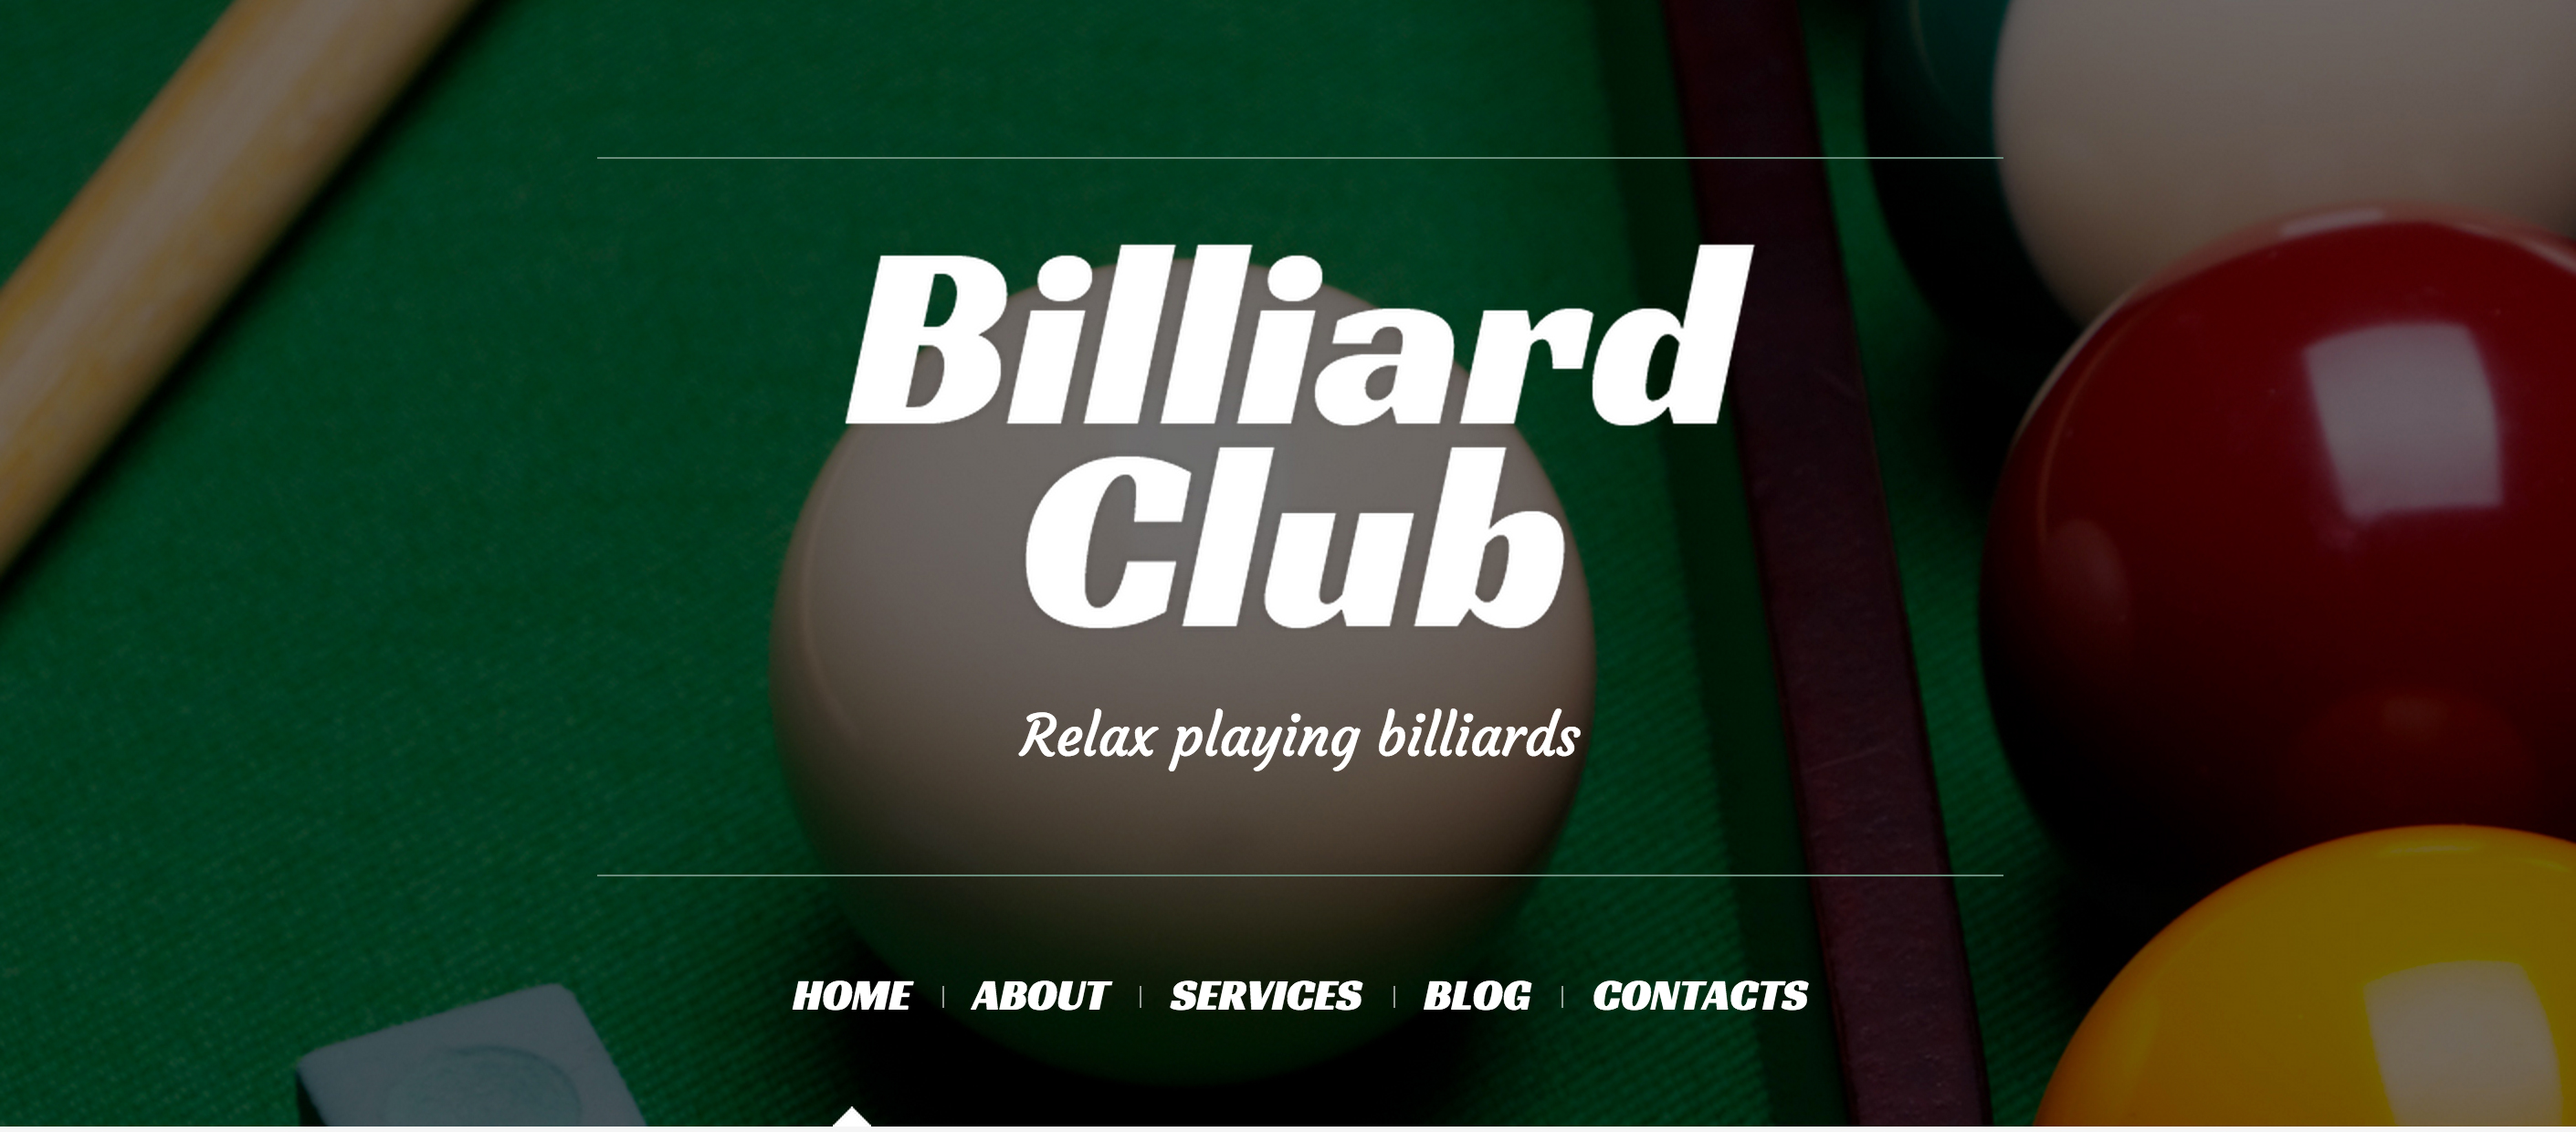
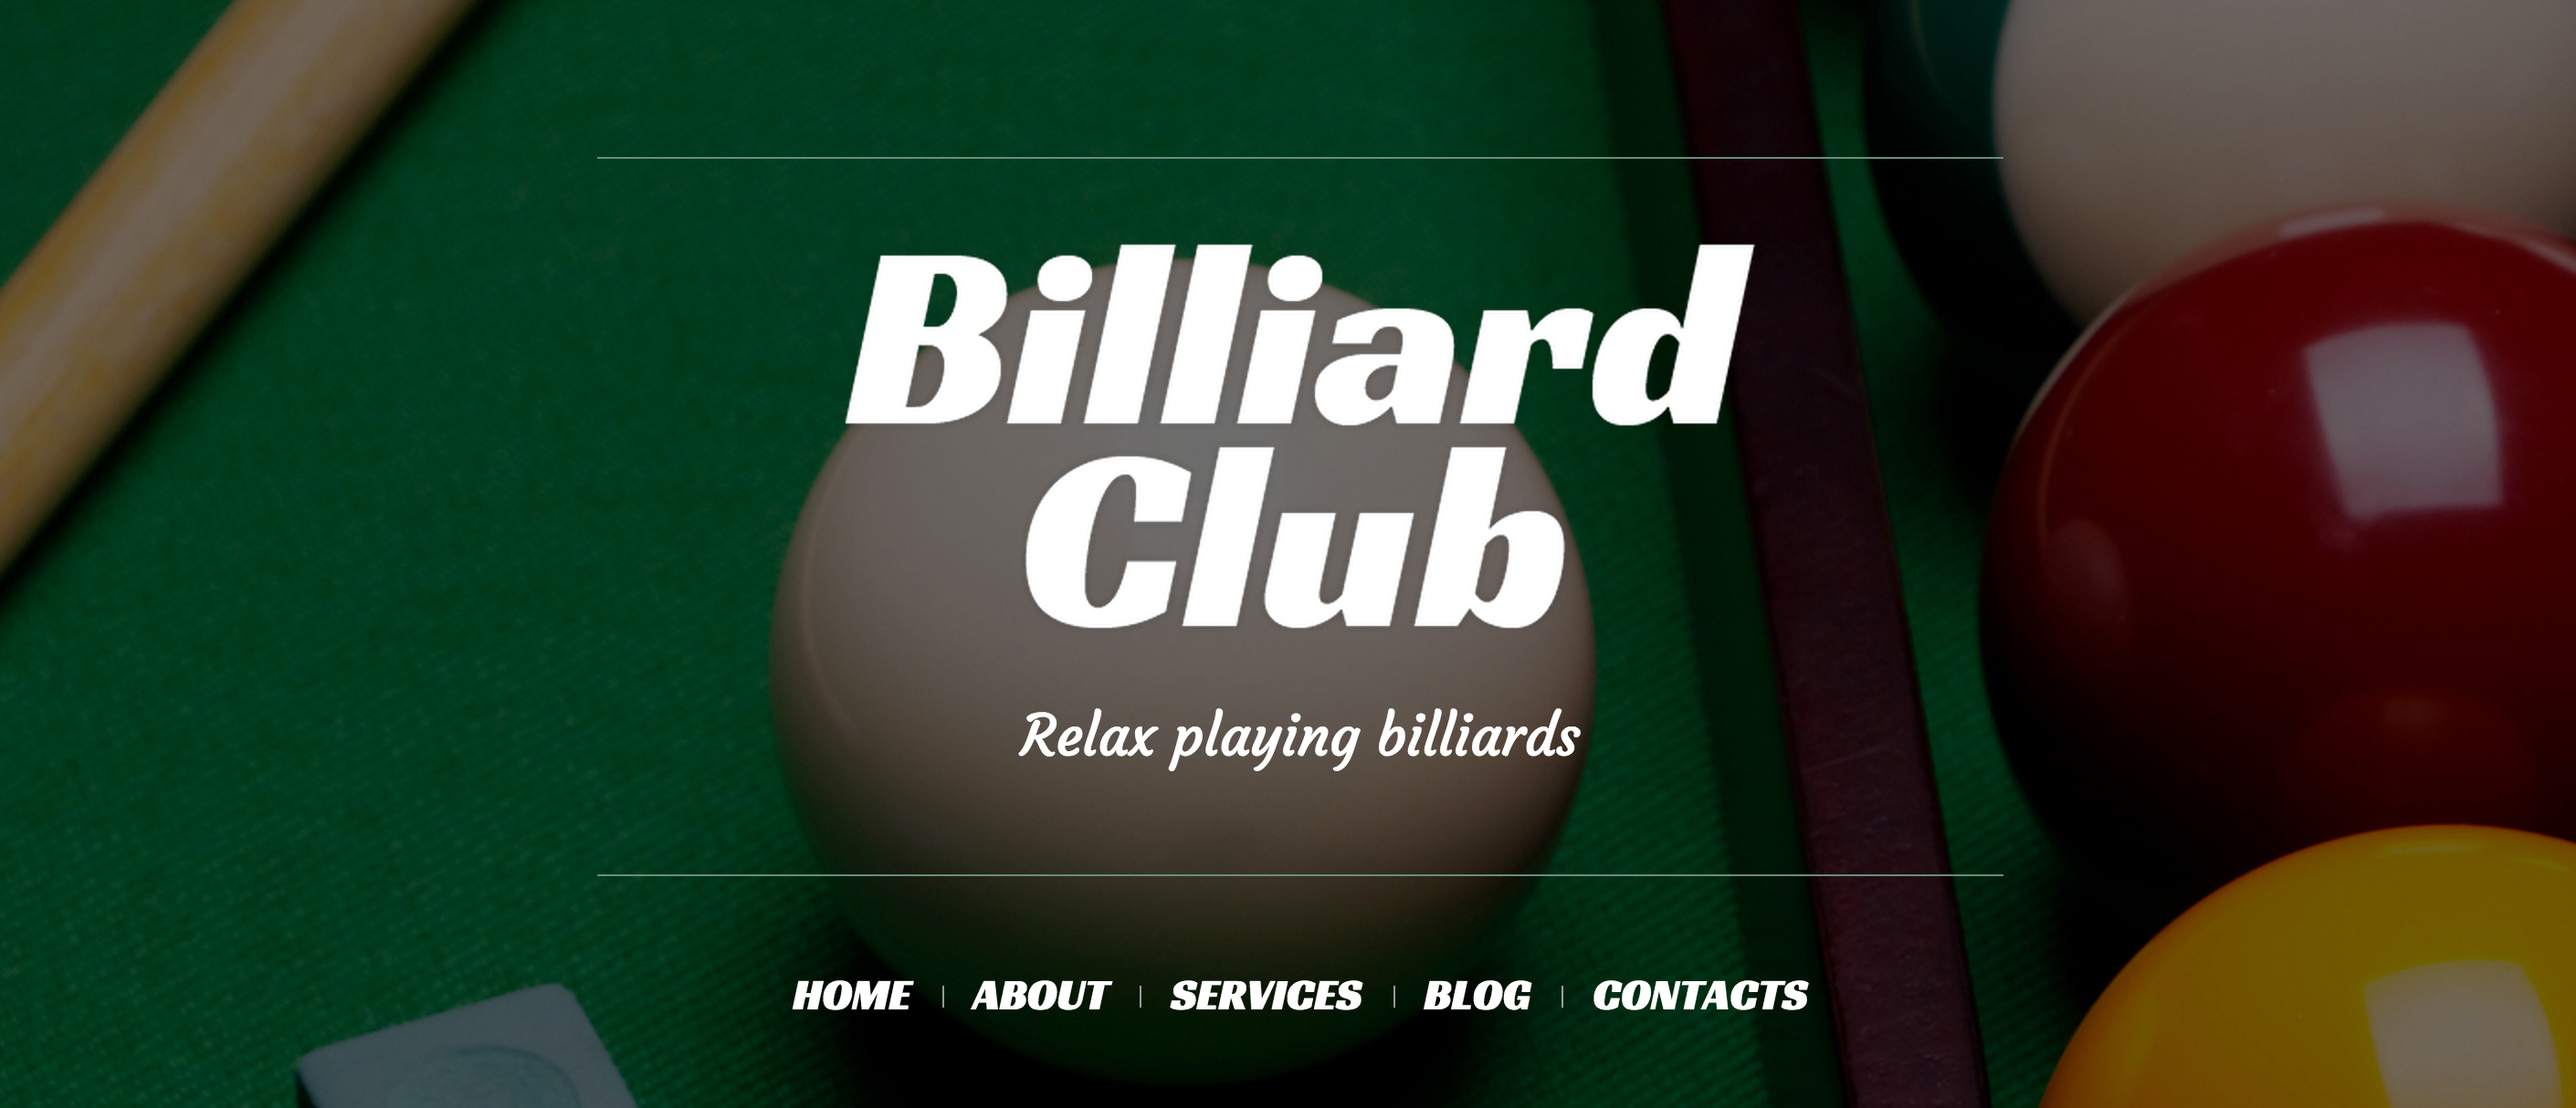
update 08-21-10-45

diff --git a/components/6/css/component.css b/components/6/css/component.css
@@ -55,22 +55,28 @@ li{
 		height: 40px;
 }
 
-a[href*="http://www.facebook.com"] {
-		background: url("images/facebook-logo-white.png") no-repeat center;
-		background-size: 1rem;
+li:first-child{
+		background: url("../images/icon-facebook-white-1.png") no-repeat center;
+		background-color: #32353a;
+		background-size: 1.5rem;
 }
 
-a[href*="https://www.twitter.com"] {
-		background: url("../images/twitter.gif") no-repeat center;
-		background-size: 1rem;
+li:nth-child(2){
+		background: url("../images/twitter_logo_white.gif") no-repeat center;
+		background-color: #32353a;
+		background-size: 6rem;
 }
 
-a[href*="http://www.google.com/+/"]{
-		background-image: url("../images/google-plus.png") no-repeat center;
+li:nth-child(3){
+		background: url("../images/googleplus-icon-02-01.png") no-repeat center;
+		background-color: #32353a;
+		background-size: 1.5rem;
 }
 
-a[href*="https://instagram.com/"] {
-		background-image: url("../images/instagram.png") no-repeat center;
+li:nth-child(4){
+		background: url("../images/instagram.png") no-repeat center;
+		background-color: #32353a;
+		background-size: 2rem;
 }
 
 li:hover{
@@ -80,6 +86,10 @@ li:hover{
 a{
 		text-decoration: none;
 		color: #636b76;
+}
+
+a:first-child, a:first-child:hover{
+		color: #fff;
 }
 
 a:hover{

diff --git a/components/4/component.html b/components/4/component.html
@@ -17,7 +17,7 @@
 								<p>03</p>
 								<p><span>Dec</span><br>2014</p>
 						</time>
-								<h2>Donec Facilisi Ule Mes Cuml Dia Sed</h2>
+								<h2>Donec Facilisi Ule <span class="red">Mes Cuml Dia Sed</span></h2>
 								<p>Morbi tempor quam mas sadipu iscing ut cucongue pentesqu nisel elit comte modo velultrices vel conseq.</p>
 						
 				</article>
@@ -26,7 +26,7 @@
 								<p>06</p>
 								<p><span>Dec</span><br>2014</p>
 						</time>
-								<h2>Donec Facilisi Ule Mes Cuml Dia Sed</h2>
+								<h2>Donec Facilisi Ule <span class="red">Mes Cuml Dia Sed</span></h2>
 								<p>Morbi tempor quam mas sadipu iscing ut cucongue pentesqu nisel elit comte modo velultrices vel conseq.</p>
 						
 				</article>

diff --git a/components/4/css/component.css b/components/4/css/component.css
@@ -22,6 +22,11 @@ h1{
     	padding-top: 20px;
 }
 
+.red{
+		color: #e74c3c;
+		opacity: 0.9;
+}
+
 article{
 		margin-left: 70px;
 		padding-bottom: 20px;
@@ -34,6 +39,18 @@ article p:first-child{
 		padding: 3px;
 		text-align: center;
 		font-size: 40px;
+}
+
+p:first-child::after{
+		content: "";
+		width: 0;
+		height: 0;
+		border-style: solid;
+		border-width: 10px 0 10px 20px;
+		border-color: transparent transparent transparent #e74c3c;
+		float: left;
+		margin-top: -45px;
+		margin-left: 45px;
 }
 
 article p:nth-child(2){

diff --git a/components/3/css/component.css b/components/3/css/component.css
@@ -7,15 +7,16 @@ body{
 
 section{
 		background: url("../images/parallax2.jpg") no-repeat;
-		width: 1455px;
-		height: 640px;
-		margin-left: -25px;
+		width: 1586px;
+		height: 740px;
+		margin-left: -155px;
+		margin-top: -11px;
 }
 
 article{
-		padding-top: 150px;
+		padding-top: 250px;
 		color: #fff;
-		margin: 0 auto;
+		margin-left: 300px;
 }
 
 h2{
@@ -35,7 +36,7 @@ p{
 		font-size: 21px;
     	line-height: 36px;
     	font-weight: 500;
-    	letter-spacing: 4.8px;
+    	letter-spacing: 2px;
 }
 
 img{

diff --git a/components/7/css/component.css b/components/7/css/component.css
@@ -81,6 +81,22 @@ aside{
 		margin-right: 260px;
 }
 
+ul{
+		list-style-type: none;
+}
+
+li::before{
+		content: "";
+		width: 0;
+		height: 0;
+		border-style: solid;
+		border-width: 3px 0 3px 6px;
+		border-color: transparent transparent transparent #72aeb4;
+		float: left;
+		margin-top: 10px;
+		margin-left: -20px;
+}
+
 h4{
 		background-color: #ccc;
 		font-size: 20px;

diff --git a/components/5/css/component.css b/components/5/css/component.css
@@ -64,15 +64,14 @@ article{
 
 img { 
 	float: right;
-	margin: 5px;
-	padding-bottom: 5px;
 }
 
 h5{
 		float: left;
-		width: 500px;
-		margin-top: 500px;
-		margin-left: -500px;
+		clear: both;
+		width: 800px;
+		margin-top: 15px;
+		margin-left: -100px;
 }
 
 p{
@@ -80,4 +79,5 @@ p{
 		margin-top: 500px;
 		margin-left: -1100px;
 }
+
 

diff --git a/components/9/css/component.css b/components/9/css/component.css
@@ -15,7 +15,7 @@ section{
 }
 
 h2{
-		font-weight: 900;
+		font-weight: bold;
     	font-size: 36px;
    	 	line-height: 40px;
    	 	color: #fff;
@@ -57,11 +57,6 @@ button{
 		font-weight: 700;
 		text-transform: uppercase;
 		border: 0px;
-}
-
-input:hover{
-		background-color: rgba(15, 202, 191, 0.2);
-		color: #fff;
 }
 
 button:hover{

diff --git a/components/6/component.html b/components/6/component.html
@@ -11,8 +11,8 @@
 		
 		<footer>
 		
-				<img src="images/video_camera.png" alt="vid" />
-				<h1>vid<span>meo</span><span></h1>
+				<a href="#"><img src="images/video_camera.png" alt="vid" /></a>
+				<h1><a href="#">vid<span>meo</span></a></h1>
 				<p>Commercial video production</p>
 				
 				<ul>

diff --git a/components/10/css/component.css b/components/10/css/component.css
@@ -65,8 +65,9 @@ form{
 
 textarea{
 		height: 300px;
-		width: 1050px;
+		width: 1025px;
 		margin-left: 170px;
 		font-size: 13px;
 		text-transform: uppercase;
+		padding: 15px;
 }
